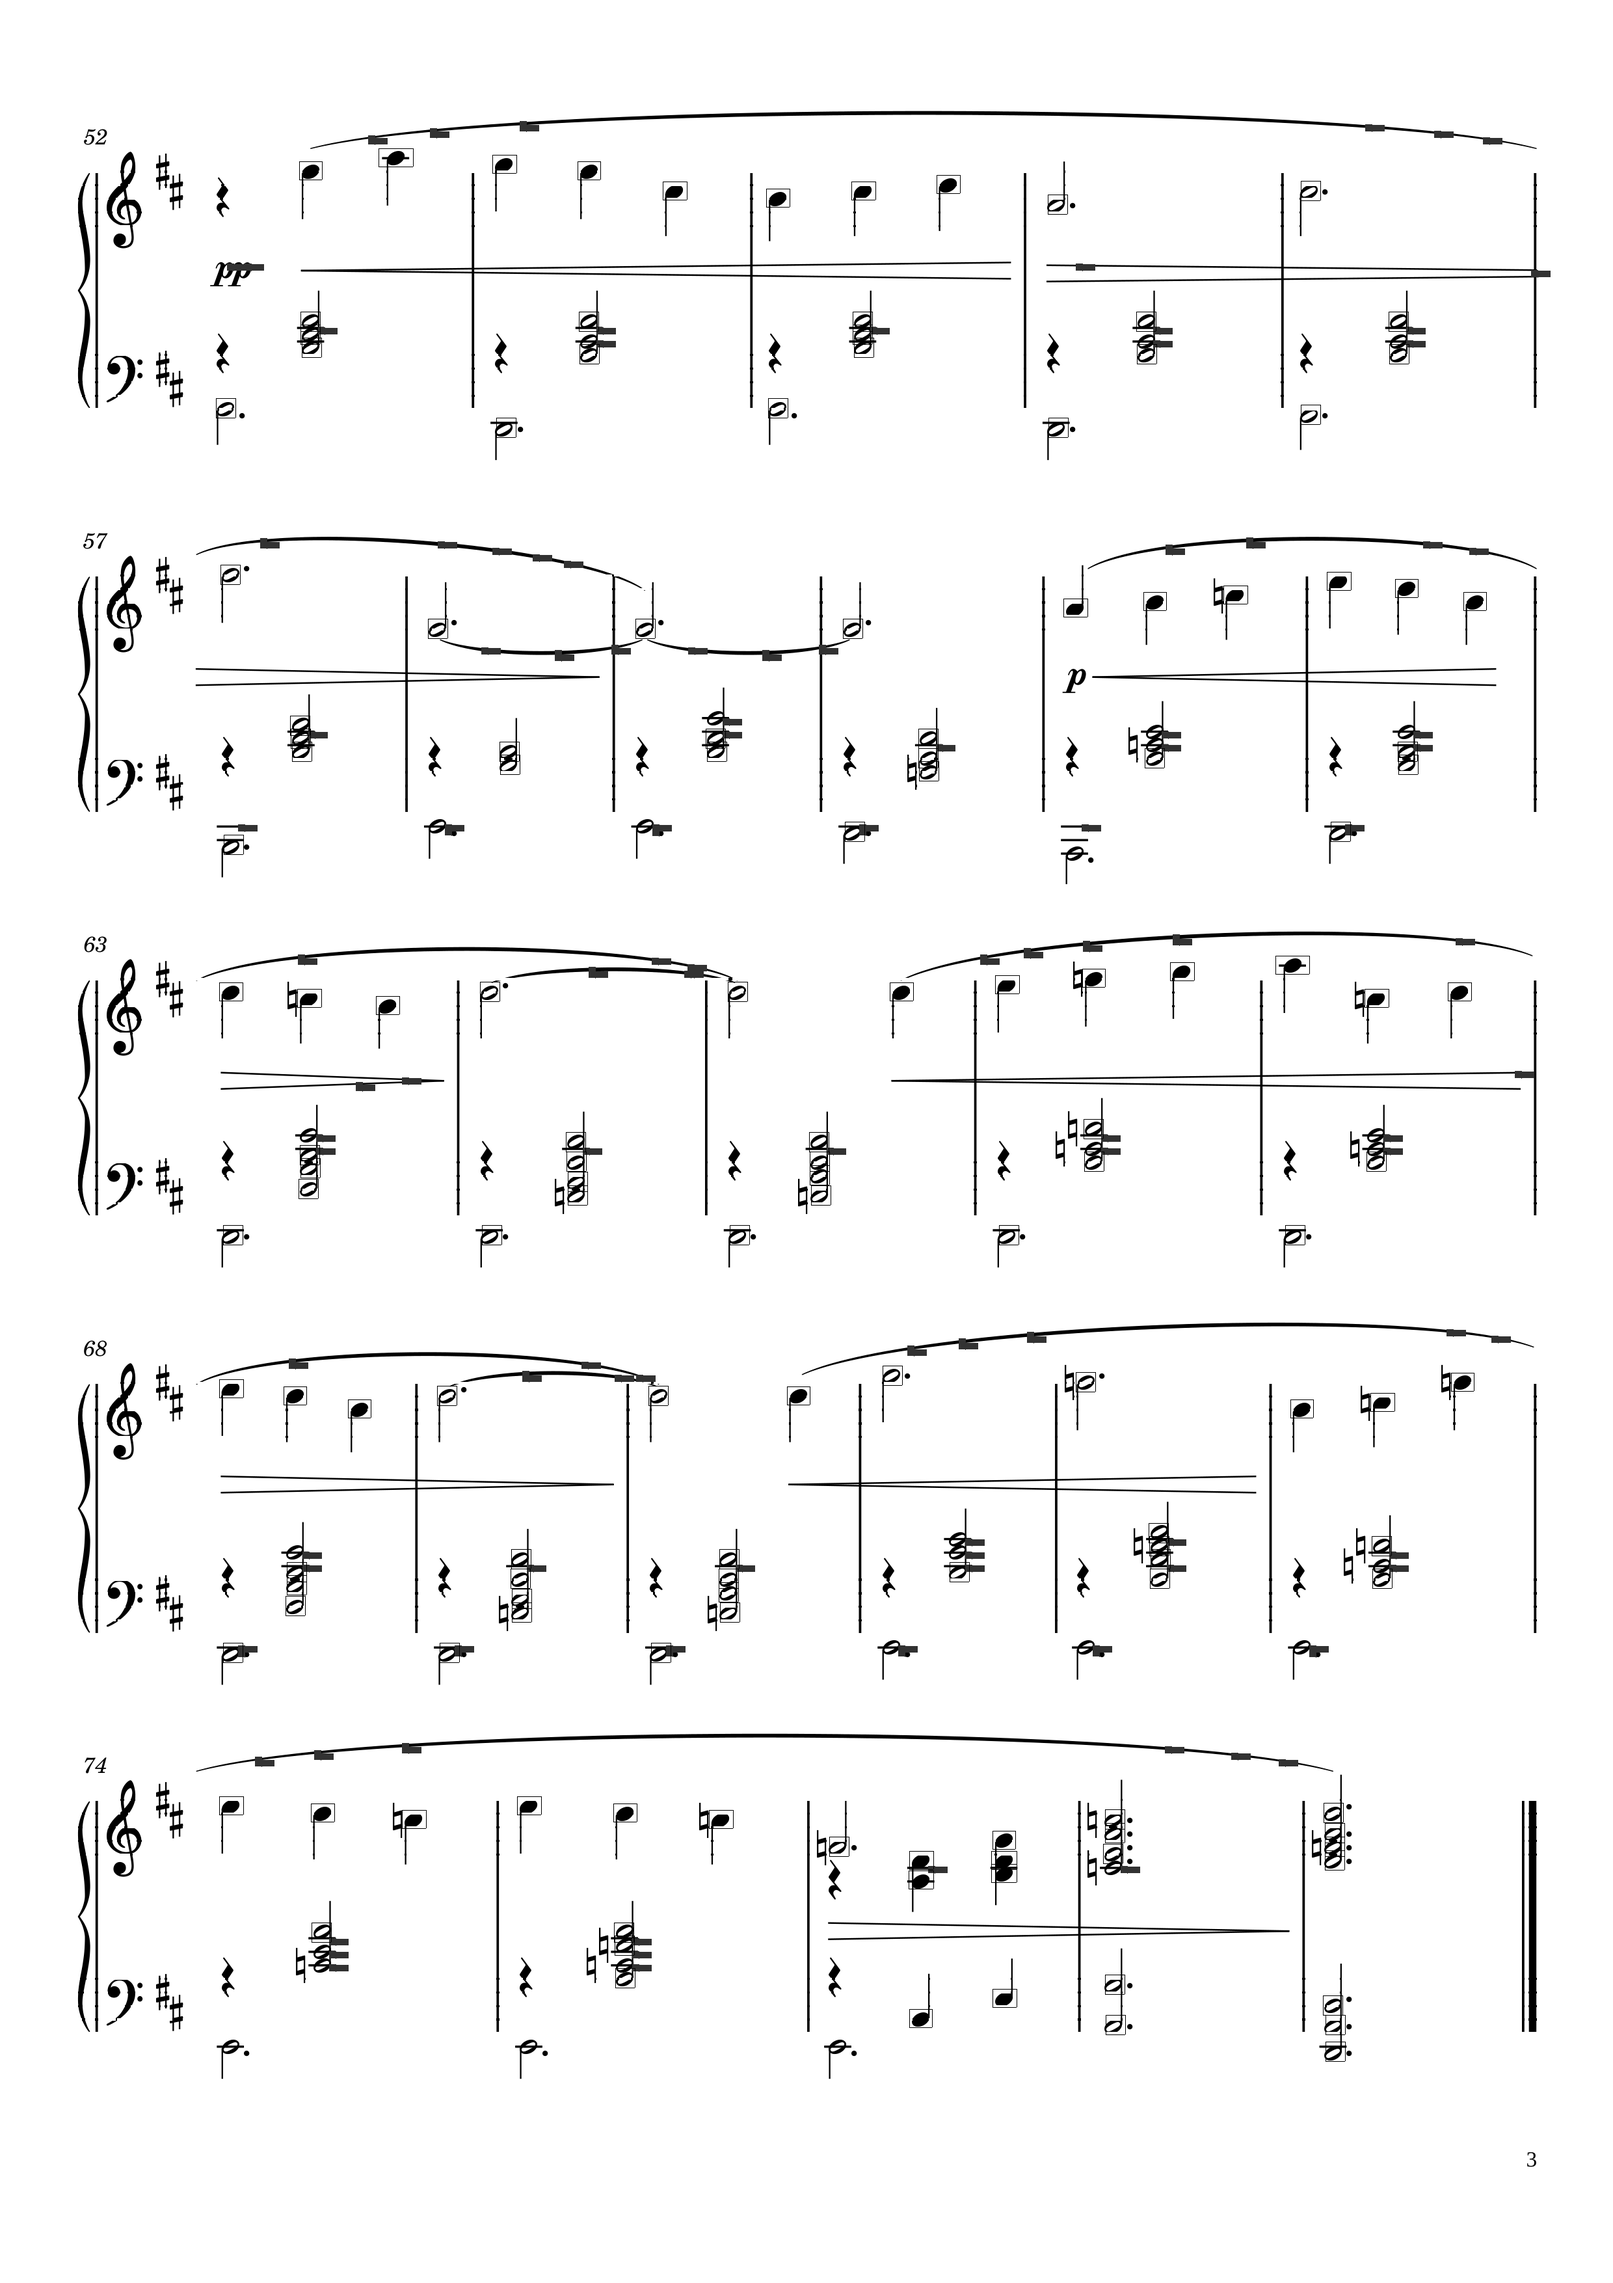
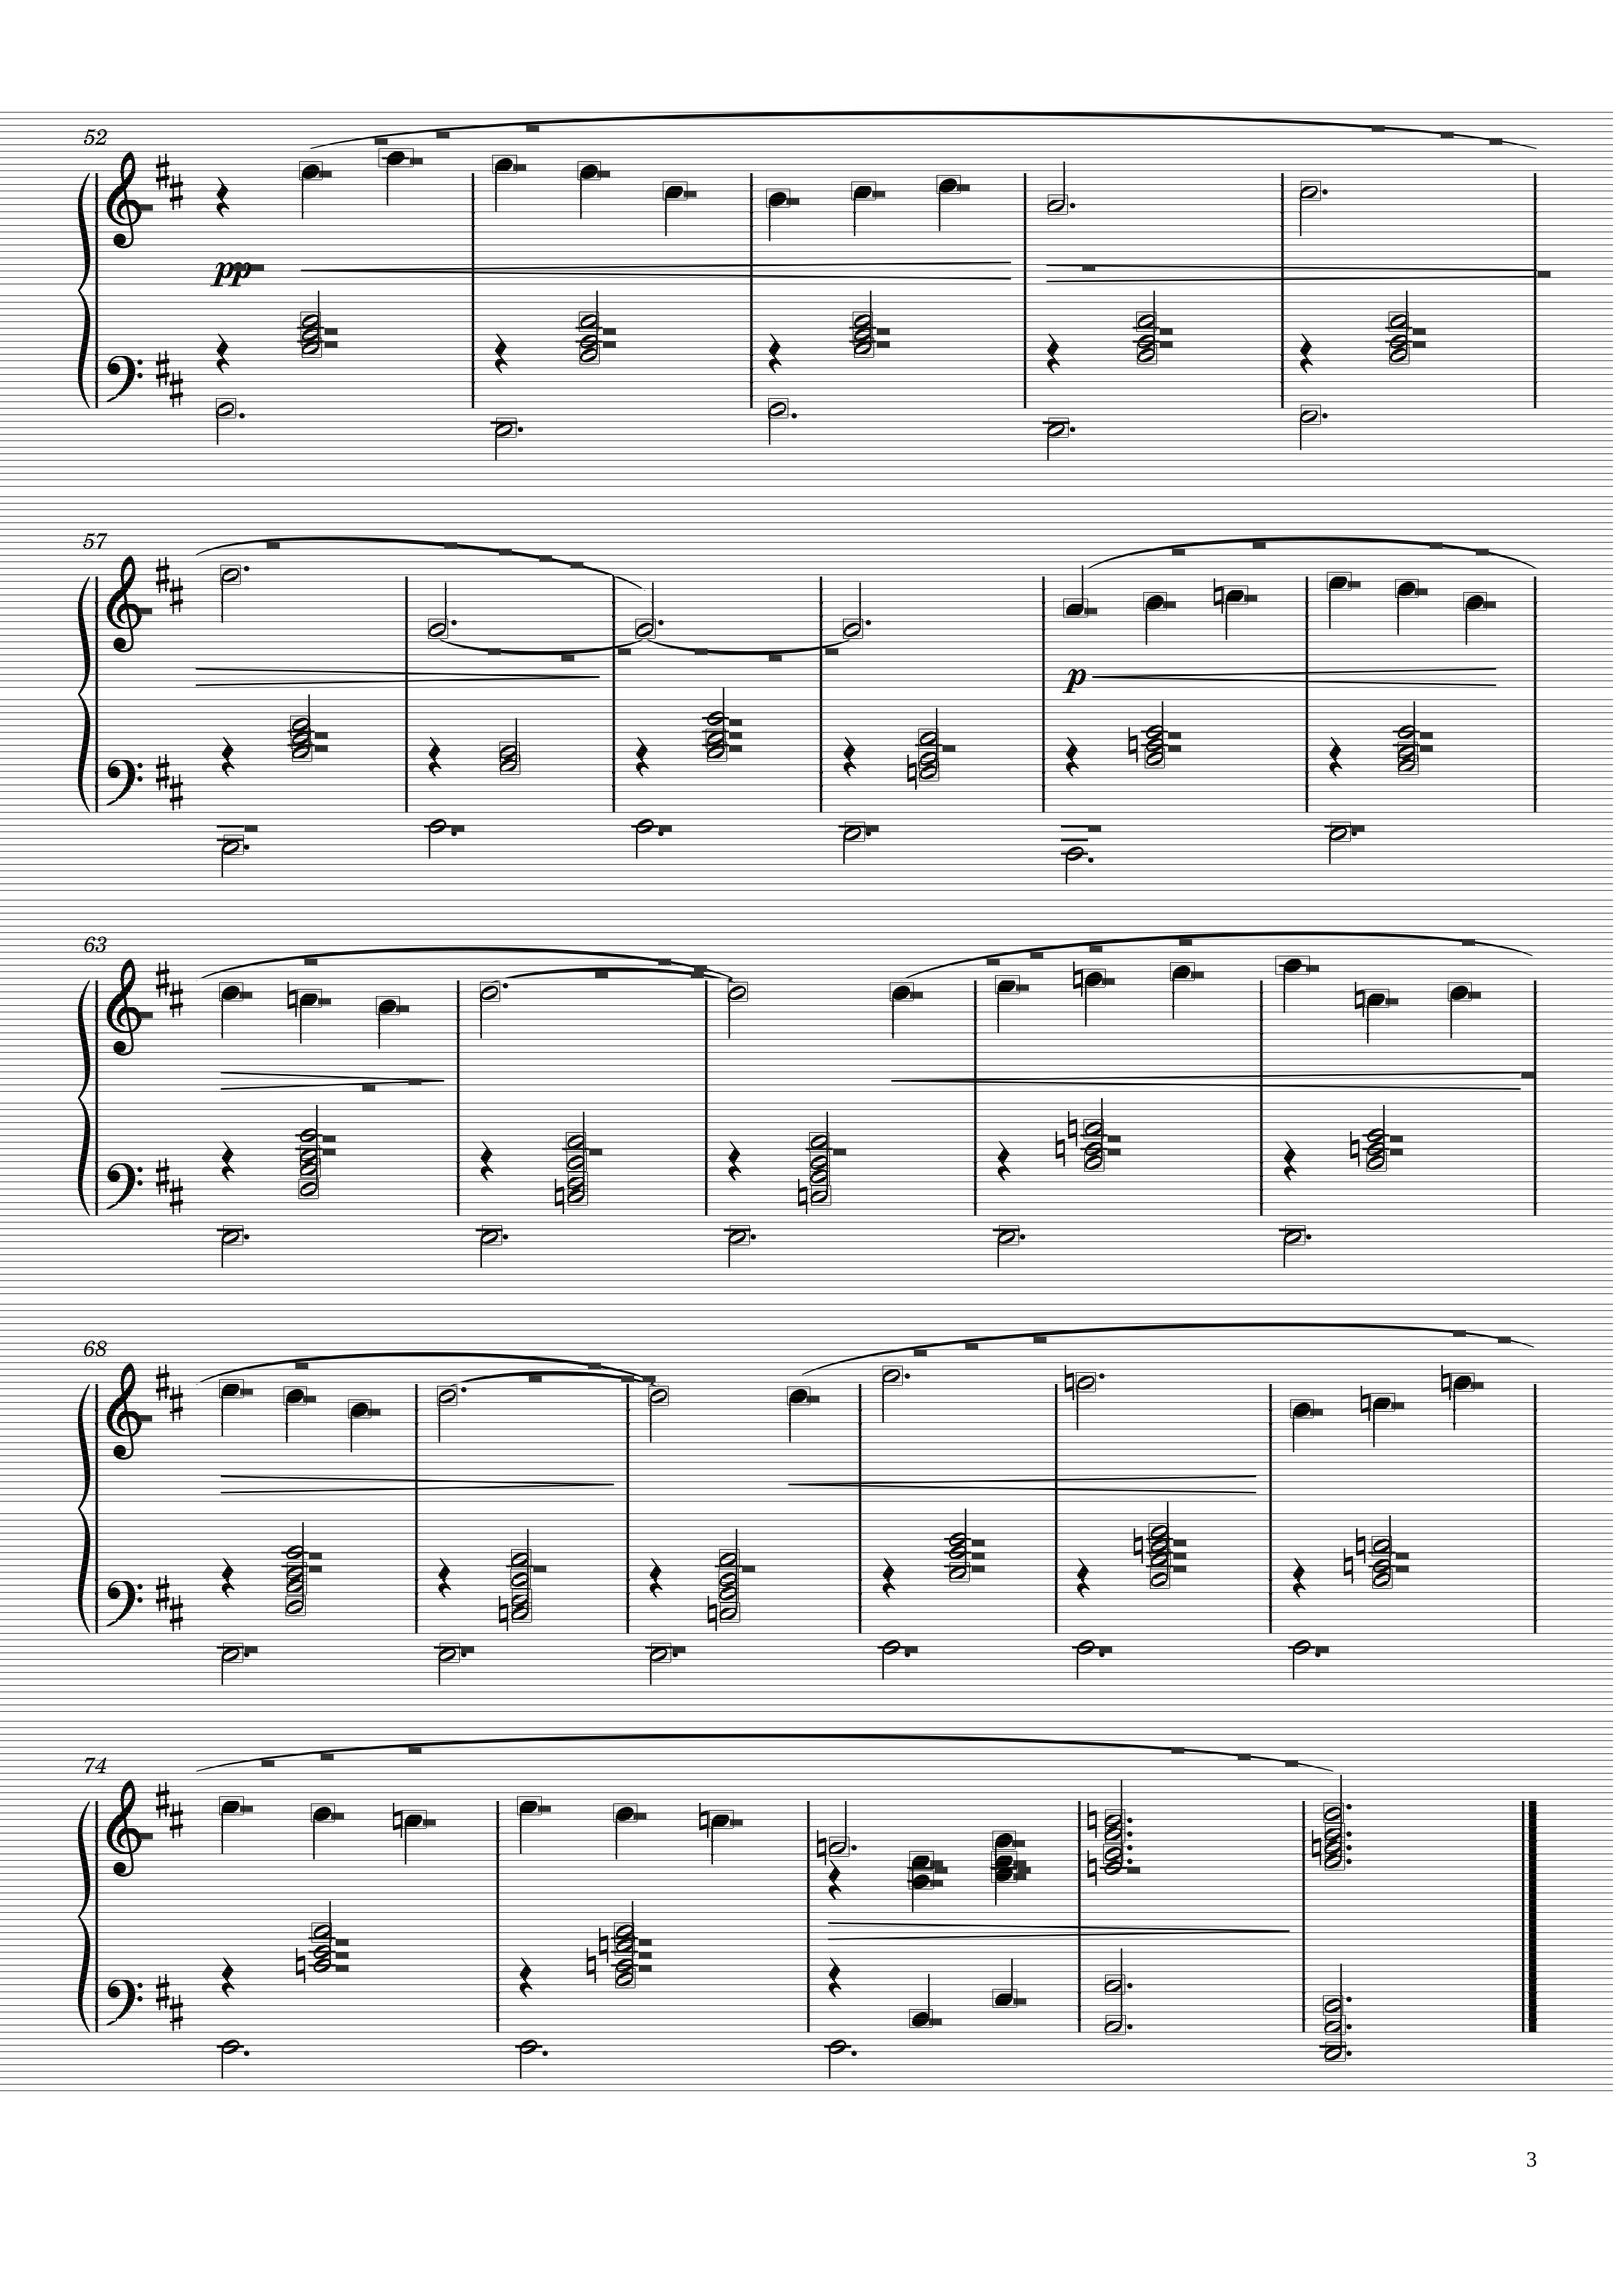
workfromere

diff --git a/testing.py b/testing.py
@@ -1,9 +1,3 @@
-#A BIG ISSUE HERE IS THAT THE DIFFERENCE IS 10 AND THEN 9 WE HAVE CURRENT LOOP Y SCREWED UP FOR THE ADDING
-#HAVE O FIGURE OUT Y!!!
-
-
-
-
 #work on dashes
 
 from PIL import Image, ImageDraw
@@ -249,9 +243,14 @@ def extract_highlighted_lines_and_columns_from_image(image_path, threshold=2/3):
             
             for x_index in range(width):
                 pixel = img_array[current_loop_y, x_index]
+                #see if it goes from
+                img_array[current_loop_y, x_index] = 50
                 if pixel != 255 and x_index != width - 1:
                     black_count += 1
                 elif black_count >= difference_between_lines_for_line_drawing * 1.15 and black_count < difference_between_lines_for_line_drawing * 5:
+                    #i think it thinks they're white
+
+                    img_array[current_loop_y: current_loop_y + 10, x_index: x_index + 20] = 50
 
                     #apply my logic to see if it is a black note
                     middle_x = x_index - round(black_count / 2)
@@ -267,8 +266,7 @@ def extract_highlighted_lines_and_columns_from_image(image_path, threshold=2/3):
 
                         #let's hope our black note logic isn't screwed up and it does the dash thing here
                         #so it's not being identified for anything
-                        img_array[current_loop_y: current_loop_y + 10, x_index: x_index + 20] = 50
-
+                        #img_array[current_loop_y: current_loop_y + 10, x_index: x_index + 20] = 50
 
                         #has to be x, y tuple
                         top_left = [x_index - black_count, current_loop_y - (round(difference_between_lines_for_line_drawing / 2) - 1)]
